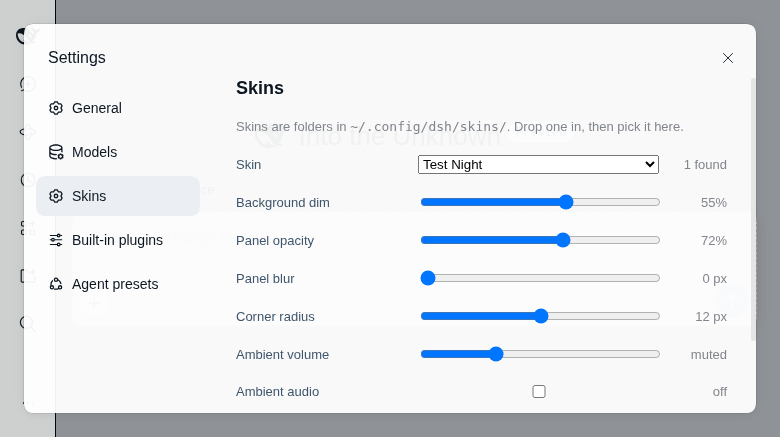
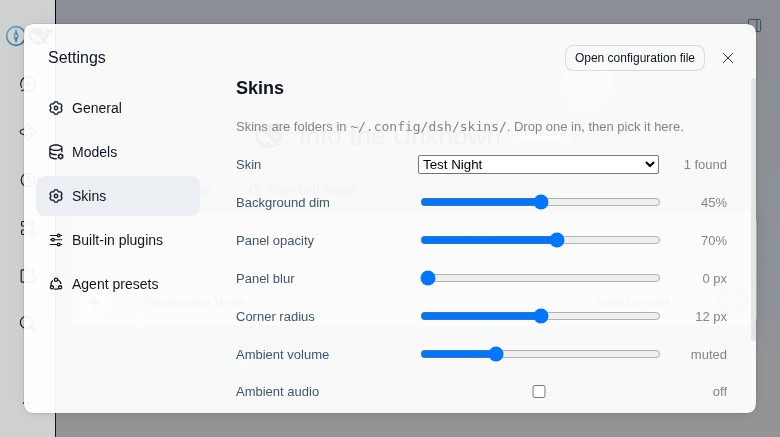
Rewrite the README for a public repo, add Chinese translation
Screenshots re-captured in a clean profile so no workspace name or session
title ships. Documents what the plugin actually does today, including the
unverified video path and the branding approach.

Also clears the shell's outer containers by geometry rather than by hashed
class name, so the wallpaper shows through on other builds.

diff --git a/src/client/state.ts b/src/client/state.ts
@@ -270,6 +270,32 @@ export class SkinController {
 
     // ---- audio ----
     this.syncAudio(entry, prefs)
+
+    // ---- chrome backdrop ----
+    // The shell's outer containers paint their own background. Class names are
+    // build-hashed and change between releases, so instead of naming them we
+    // walk up from the sidebar and clear every ancestor that paints a colour:
+    // those are chrome, never content cards.
+    this.clearChromeBackdrop()
+  }
+
+  /**
+   * Make the shell's own containers transparent so the background layer shows.
+   * Only ancestors of the sidebar are touched, so panels and cards keep their
+   * translucent treatment.
+   */
+  private clearChromeBackdrop(): void {
+    const vw = window.innerWidth * window.innerHeight
+    const candidates = document.querySelectorAll<HTMLElement>('#root, #root > *, #root > * > *, body > div')
+    for (const node of candidates) {
+      const rect = node.getBoundingClientRect()
+      // Only full-window containers are chrome; cards are smaller.
+      if (rect.width * rect.height < vw * 0.8) continue
+      const bg = getComputedStyle(node).backgroundColor
+      if (bg === 'rgba(0, 0, 0, 0)' || bg === 'transparent') continue
+      node.style.setProperty('background-color', 'transparent', 'important')
+      this.scopeVars.push([node, 'background-color'])
+    }
   }
 
   /**

diff --git a/lib/client.js b/lib/client.js
@@ -208,6 +208,24 @@ var SkinController = class {
       this.setVar("--dsh-skin-name", `"${branding.name.replace(/"/g, '\\"')}"`);
     }
     this.syncAudio(entry, prefs);
+    this.clearChromeBackdrop();
+  }
+  /**
+   * Make the shell's own containers transparent so the background layer shows.
+   * Only ancestors of the sidebar are touched, so panels and cards keep their
+   * translucent treatment.
+   */
+  clearChromeBackdrop() {
+    const vw = window.innerWidth * window.innerHeight;
+    const candidates = document.querySelectorAll("#root, #root > *, #root > * > *, body > div");
+    for (const node of candidates) {
+      const rect = node.getBoundingClientRect();
+      if (rect.width * rect.height < vw * 0.8) continue;
+      const bg = getComputedStyle(node).backgroundColor;
+      if (bg === "rgba(0, 0, 0, 0)" || bg === "transparent") continue;
+      node.style.setProperty("background-color", "transparent", "important");
+      this.scopeVars.push([node, "background-color"]);
+    }
   }
   /**
    * Elements that declare the design tokens: walk up from a themed surface and

diff --git a/README.md b/README.md
@@ -1,101 +1,118 @@
 # dsh-skin
 
-Folder-based skins for **DeepSeek Harness Web**: image or video backgrounds, translucency, colour
-tokens, custom logo and wordmark, ambient audio.
+**English** · [简体中文](README.zh.md)
 
-A skin is a folder. Drop it in, pick it in **Settings → Skins**, done. No build step, no upload
-dialog, nothing leaves the machine.
+Skins for **DeepSeek Harness Web** — the kind where you point it at a wallpaper and the whole
+interface sits on top of it.
 
-![Skins settings](screenshots/settings.png)
+A skin is a folder. Drop it in `~/.config/dsh/skins/`, refresh, pick it in **Settings → Skins**.
+Image or video background, translucent panels, your own colours, your own logo and wordmark, optional
+ambient audio. No build step, no upload dialog, nothing leaves the machine.
+
+![Skins settings page](screenshots/settings.png)
 
 ## Requirements
 
-- dsh `0.2.2-rc.x` (the client and settings peers are pinned to that range).
-- The **web** profile (`dsh web`). The desktop app uses a different client carrier and is not
-  supported yet.
+- dsh **0.2.2-rc.x**. The client peers are pinned to that range; the plugin manager refuses anything
+  outside it rather than half-loading.
+- The **web** profile (`dsh web`). The desktop app loads its client differently and is not supported
+  yet.
 
 ## Install
 
 ```bash
-# from a local checkout
+# from a checkout
 dsh plugin --profile web add /path/to/dsh-skin
 
-# or straight from the repository
-dsh plugin --profile web add github:YOURNAME/dsh-skin
+# or from GitHub
+dsh plugin --profile web add github:bigm4ngo/dsh-skin
 ```
 
-Restart `dsh web`. The plugin's host half registers `/dsh-skin` and serves the skins directory.
+Restart `dsh web` and open **Settings → Skins**.
 
-If your dsh is not `0.2.2-rc.x`, the compatibility gate refuses the plugin; adjust the peer ranges in
-`package.json` or install with an exemption.
+Nothing is installed system-wide: `dsh plugin` puts the package in the profile's own `node_modules`,
+and `lib/` ships pre-built, so your machine needs no compiler or build step.
 
-## Add a skin
+## Make a skin
 
-```bash
-mkdir -p ~/.config/dsh/skins
-cp -r my-skin ~/.config/dsh/skins/
+The full format — every field, the colour tokens, the rules for drawing a logo — is in
+**[SKIN-FORMAT.md](SKIN-FORMAT.md)**. It is written to be handed to a designer, not only to a
+developer.
+
+The short version:
+
 ```
-
-Then reload the page and choose it under **Settings → Skins**.
-
-```
-~/.config/dsh/skins/my-skin/
+~/.config/dsh/skins/harbour/
 ├── skin.json
-├── logo.svg
-├── background.jpg     (or .mp4 / .webm)
-└── ambient.mp3        (optional)
+├── background.jpg      (or .mp4 / .webm)
+├── logo.svg            (optional)
+└── ambient.mp3         (optional)
 ```
-
-Full format, field by field, with the colour tokens and the drawing rules for the logo:
-**[SKIN-FORMAT.md](SKIN-FORMAT.md)** — written to be handed to a designer.
-
-Minimal working skin:
 
 ```json
 {
-  "name": "Aegean",
-  "background": { "file": "background.jpg", "dim": 0.55 },
-  "colors": { "dark": { "bg-layer-1": "#0d1a2b", "brand-primary": "#5fc8ff" } }
+  "name": "Harbour",
+  "background": { "file": "background.jpg", "dim": 0.5 },
+  "colors": {
+    "dark":  { "bg-layer-1": "#0b1524", "brand-primary": "#7ad1ff" },
+    "light": { "bg-layer-1": "#ffffff", "brand-primary": "#1b6f9e" }
+  }
 }
 ```
 
+Reload the page and it appears in the list. If something is wrong — a missing file, a value that
+isn't a colour, a 300 MB video — the skin is refused and the reason is printed under the dropdown
+instead of being applied silently.
+
+![Skin applied](screenshots/applied.png)
+
 ## What you can change
 
-- **Background** — image or video, called `cover` / `contain` / `fill` / `repeat`, positioned, dimmed
-  and blurred.
-- **Surfaces** — panel opacity, backdrop blur, corner radius. Every `--dsw-alias-bg-*`,
-  `label-*`, `border-*`, `button-*`, `state-*` token can be overridden per light/dark mode.
-- **Logo and wordmark** — replace the mark with your own SVG/PNG/WebP and rename the product.
-- **Ambient audio** — a looping file, or the video's own track, muted by default with a volume
+- **Background** — image or video; `cover` / `contain` / `fill` / `repeat`; position; dimming; blur.
+- **Surfaces** — panel opacity, backdrop blur, corner radius, and any `--dsw-alias-*` colour token,
+  separately for light and dark mode.
+- **Logo and wordmark** — your own SVG/PNG/WebP replaces the product mark; a plain string replaces the
+  wordmark.
+- **Ambient audio** — a looping file, or the video's own track; muted by default, with a volume
   slider.
 
-Five controls stay live in the UI (dim, panel opacity, blur, radius, ambient volume) and override the
-skin's own values per browser. Everything else is edited in `skin.json`.
+Five of those stay adjustable in the UI (dim, panel opacity, blur, radius, ambient volume) and are
+remembered per browser. Everything else comes from `skin.json`, so a designer can ship a look without
+the user having to fiddle.
 
-## Safety
+## Notes and limits
 
-A skin is **data plus media**: no CSS, no scripts, no HTML. Unknown fields are ignored rather than
-executed. The folder is served by the plugin's own host route behind the same authenticated session
-as the GUI, and nothing is uploaded anywhere.
+- **Video and audio playback are wired but unverified here.** The development machine's headless
+  browser has no media decoder, so frames never render in tests. The element, the byte-range serving
+  and the mute/volume path are all in place — check it in a normal browser before trusting it.
+- **Branding is applied to the existing brand seat**, not through the sidebar's brand slots: on
+  0.2.2-rc.1 those slots do not accept an out-of-tree occupant. The shell's mark is hidden and the
+  skin's logo is painted into the same box, so layout is unchanged.
+- Class names in the shell are build-hashed, so the plugin finds the outer containers by geometry and
+  by stable class suffixes rather than exact selectors. A future dsh release may move them; if a
+  wallpaper stops showing through, that is where to look.
+- One skin is active at a time. Switching re-reads the manifest, not the media.
 
-## Known limitations
+## How it is put together
 
-- Video and audio playback are wired through a `<video>`/`<audio>` element with HTTP range support,
-  but were not verified end to end in the development environment (its headless browser has no media
-  decoder). Verify on a normal desktop browser.
-- Logos and the wordmark are applied to the existing brand seat by hiding the shell's own mark and
-  painting the skin's assets in the same box, because the sidebar brand slots do not accept an
-  out-of-tree occupant on 0.2.2-rc.1.
-- One skin directory is read at a time; switching skins re-reads the manifest but not the media.
+Two halves, both small:
+
+- **Host** (`src/index.ts`) registers `/dsh-skin` on the web server and serves the skins directory —
+  listings at `/dsh-skin/index.json`, media at `/dsh-skin/<skin>/<file>` with HTTP range support so
+  video can stream. It validates each manifest on read.
+- **Browser** (`src/client/`) fetches the listing, paints the background layer, overrides the design
+  tokens at the element that declares them, and registers the Skins settings page.
+
+A skin is data plus media: no CSS, no scripts, no HTML. Unknown fields are ignored, not executed.
 
 ## Development
 
 ```bash
 pnpm install
-node scripts/build.mjs        # writes lib/index.js (host) and lib/client.js (browser)
+node scripts/build.mjs     # lib/index.js (host) + lib/client.js (browser)
 ```
 
-`lib/` is committed, so installing elsewhere needs no build.
+`lib/` is committed, so installing from a fresh clone needs no build.
 
 ## Licence
 

diff --git a/README.zh.md b/README.zh.md
@@ -1,0 +1,108 @@
+# dsh-skin
+
+[English](README.md) · **简体中文**
+
+给 **DeepSeek Harness Web** 换皮肤：一张壁纸铺在底下，整个界面浮在上面。
+
+皮肤就是一个文件夹。放进 `~/.config/dsh/skins/`，刷新页面，在 **设置 → 皮肤** 里选一下就行。
+支持图片或视频背景、半透明面板、自定义配色、自定义 logo 和文字标识，以及可选的背景音乐。
+不需要构建，没有导入对话框，什么都不会上传。
+
+![皮肤设置页](screenshots/settings.png)
+
+## 环境要求
+
+- dsh **0.2.2-rc.x**。客户端依赖锁在这个范围内，版本不匹配时插件管理器会直接拒绝，而不是装一半。
+- **web** 配置档（`dsh web`）。桌面版加载客户端的方式不同，暂不支持。
+
+## 安装
+
+```bash
+# 从本地目录
+dsh plugin --profile web add /path/to/dsh-skin
+
+# 或者直接从 GitHub
+dsh plugin --profile web add github:bigm4ngo/dsh-skin
+```
+
+重启 `dsh web`，然后打开 **设置 → 皮肤**。
+
+不会往系统里装任何东西：`dsh plugin` 只把包装进这个配置档自己的 `node_modules`，而 `lib/` 里是
+预编译好的产物，所以你那台机器不需要编译器，也不需要跑构建。
+
+## 做一个皮肤
+
+完整格式——每个字段、能改的颜色变量、logo 的画法——都在 **[SKIN-FORMAT.md](SKIN-FORMAT.md)** 里。
+那份文档是写给设计师看的，不只是写给程序员的。
+
+简版：
+
+```
+~/.config/dsh/skins/harbour/
+├── skin.json
+├── background.jpg      （或 .mp4 / .webm）
+├── logo.svg            （可选）
+└── ambient.mp3         （可选）
+```
+
+```json
+{
+  "name": "Harbour",
+  "background": { "file": "background.jpg", "dim": 0.5 },
+  "colors": {
+    "dark":  { "bg-layer-1": "#0b1524", "brand-primary": "#7ad1ff" },
+    "light": { "bg-layer-1": "#ffffff", "brand-primary": "#1b6f9e" }
+  }
+}
+```
+
+刷新页面，它就会出现在列表里。如果有问题——文件不存在、颜色值写错、视频 300 MB——皮肤会被拒绝，
+原因会显示在下拉框下面，而不是悄悄套用上去。
+
+![套用皮肤之后](screenshots/applied.png)
+
+## 可以改什么
+
+- **背景**：图片或视频；`cover` / `contain` / `fill` / `repeat`；位置；压暗程度；模糊。
+- **面板**：不透明度、背景模糊、圆角，以及任意 `--dsw-alias-*` 颜色变量，明暗两套模式分别设置。
+- **Logo 与文字标识**：用自己的 SVG/PNG/WebP 替换产品图标，用一段文字替换产品名称。
+- **环境音**：一个循环播放的音频文件，或者直接用视频自带的音轨；默认静音，带音量滑块。
+
+其中五项可以在界面里实时调整（压暗、面板不透明度、模糊、圆角、音量），按浏览器分别记住。其余
+全部写在 `skin.json` 里，所以设计师可以把效果定好，用户不用自己调。
+
+## 注意事项
+
+- **视频和音频的播放链路已经接好，但没有在本机验证过。** 开发机的无头浏览器没有媒体解码器，测试时
+  画面永远出不来。元素、按字节范围的分段传输、静音与音量逻辑都在，但请先在正常的桌面浏览器里确认
+  一次再当真。
+- **品牌替换是作用在原有位置上**，不是走侧边栏的品牌插槽：0.2.2-rc.1 上这些插槽不接受外部插件占用。
+  实现方式是隐藏自带的图标，把皮肤的 logo 画进同一个盒子里，布局不变。
+- 界面里的类名在构建时会被哈希，所以插件靠几何尺寸和稳定的类名后缀来找外层容器，而不是写死的选择器。
+  以后 dsh 改版可能会移动它们；如果哪天壁纸不透出来了，先查这里。
+- 同一时间只启用一个皮肤。切换皮肤会重新读清单，但不会重新加载媒体文件。
+
+## 实现结构
+
+两半，都很小：
+
+- **宿主端**（`src/index.ts`）在 web 服务器上注册 `/dsh-skin`，把皮肤目录提供出去：列表在
+  `/dsh-skin/index.json`，媒体在 `/dsh-skin/<皮肤>/<文件>`，带 HTTP Range 支持，视频才能边下边播。
+  读取时会校验每个清单。
+- **浏览器端**（`src/client/`）拉取列表、铺背景层、在真正声明设计变量的那个元素上覆盖变量，并注册
+  设置页里的皮肤分区。
+
+皮肤只是数据和媒体：没有 CSS、没有脚本、没有 HTML。不认识的字段会被忽略，不会被执行。
+
+## 开发
+
+```bash
+pnpm install
+node scripts/build.mjs     # 产出 lib/index.js（宿主）和 lib/client.js（浏览器）
+```
+
+`lib/` 是提交进仓库的，所以从新克隆的仓库安装时不需要再构建。
+
+## 许可证
+
+MIT。
